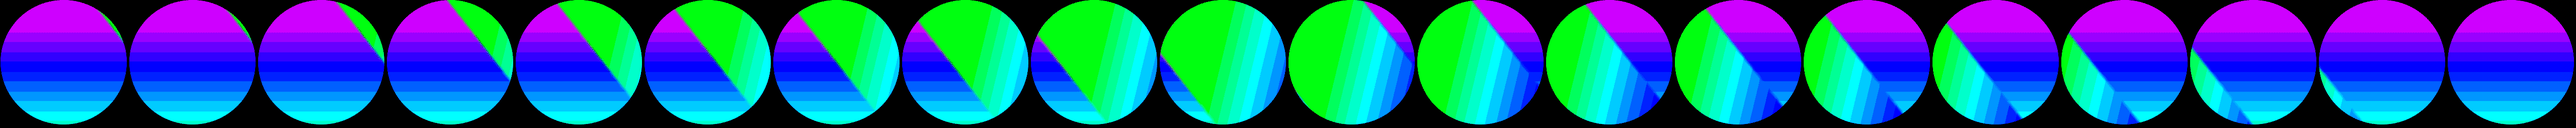
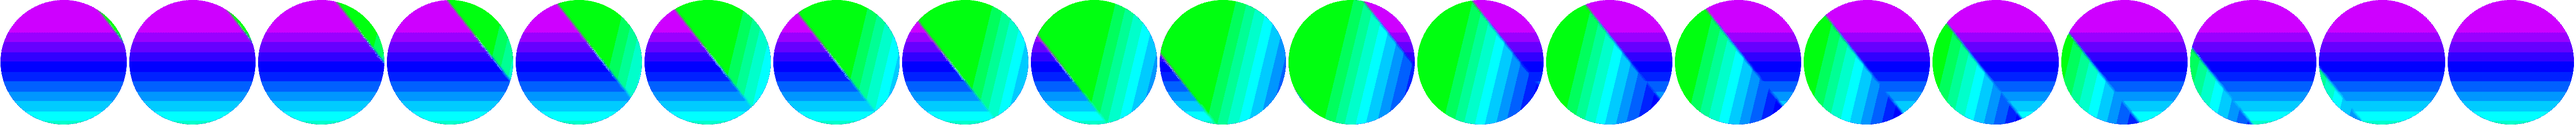
random tint chance, loading screen

Changed region(s): [[0.0, 0.625, 1.0, 1.0], [0.0, 0.0, 1.0, 0.3438]]

diff --git a/js/main.js b/js/main.js
@@ -1,6 +1,6 @@
 "use strict";
 
-Pizzicato.volume = 0;
+Pizzicato.volume = 1;
 // directions: [N, E, S, W]
 
 let overlayElementCount = 0;
@@ -183,17 +183,20 @@ class OverlayElement
       let frameWidth = frames[0].width;
       let frameHeight = frames[0].height;
 
-      let tintCanvas = document.createElement('canvas');
-      tintCanvas.width = frameWidth;
-      tintCanvas.height = frameHeight;
-
-      let t_ctx = tintCanvas.getContext('2d');
-      t_ctx.fillStyle = tint;
-      t_ctx.fillRect(0, 0, frameWidth, frameHeight);
-
-
       for (let i = 0; i < frames.length; i++)
       {
+        let tintCanvas = document.createElement('canvas');
+        tintCanvas.width = frameWidth;
+        tintCanvas.height = frameHeight;
+
+        let t_ctx = tintCanvas.getContext('2d');
+        t_ctx.fillStyle = tint;
+        t_ctx.fillRect(0, 0, frameWidth, frameHeight);
+
+        t_ctx.globalCompositeOperation = "destination-in";
+
+        t_ctx.drawImage(frames[i], 0, 0, frameWidth, frameHeight);
+
         let tintedFrame = document.createElement('canvas');
 
         tintedFrame.width = frameWidth;
@@ -661,7 +664,7 @@ class Game
 {
   constructor()
   {
-    this.state = "menu";
+    this.state = "preload";
 
     this.generator = undefined;
     this.player = new Player();
@@ -755,6 +758,15 @@ class Game
         this.state = "game";
       }
     }
+    else if (this.state === "preload")
+    {
+      if (this.renderer.assetsPreloaded())
+      {
+        this.state = "menu";
+        this.renderer.createLoadingElement();
+        this.renderer.loadAssets();
+      }
+    }
   }
 
   startSong()
@@ -775,6 +787,8 @@ class Game
 
     let zone;
     let anchor;
+    let baseOffset = 60;
+    let yOffset = null;
 
     if (this.renderer.canvasWidth >= this.renderer.canvasHeight)
     {
@@ -782,19 +796,23 @@ class Game
       {
         case 0:
           zone = "B0";
-          anchor = "top-left";
+          anchor = "top-right";
+          yOffset = baseOffset;
           break;
         case 1:
           zone = "B1";
-          anchor = "top-right";
+          anchor = "top-left";
+          yOffset = baseOffset;
           break;
         case 2:
           zone = "B1";
-          anchor = "bottom-right";
+          anchor = "bottom-left";
+          yOffset = -baseOffset;
           break;
         case 3:
           zone = "B0";
-          anchor = "bottom-left";
+          anchor = "bottom-right";
+          yOffset = -baseOffset;
           break;
         default:
           console.log("INVALID QUADRANT");
@@ -826,10 +844,15 @@ class Game
     }
 
     let supporter = new OverlayElement(this.renderer.assets.getAsset(supporterID));
-    supporter.setTint(this.quadrants[quadrant].colours[0].string);
+    if (Math.random() < 0.7)
+    {
+      supporter.setTint(this.quadrants[quadrant].colours[0].string);
+    }
+
     supporter.animation.timeDivider = 4;
     supporter.anchor = anchor;
     supporter.setRelativeSize(this.renderer.supporterZones[zone].width, this.renderer.supporterZones[zone].height, 0.8, supporter.width/supporter.height);
+    supporter.setOffset(0, yOffset);
 
     if (this.cornerSupporters[quadrant] !== null)
     {
@@ -1272,6 +1295,9 @@ class GameRenderer
 
       this.layerOrder = ["standard", "mazeBackground", "mazeTexture", "deadSpace", "mazeParticles", "character", "supporters"];
 
+      this.preloadedAssets = new AssetLibrary();
+      this.loadingElement = null;
+
       this.assets = new AssetLibrary();
 
       this.activeSheets = {};
@@ -1290,10 +1316,21 @@ class GameRenderer
 
       this.addAnimation("character", characterAnimation);
 
-      this.loadAssets();
+      this.preloadAssets();
 
       this.scaleLayers();
       this.initializeSupporterZones();
+    }
+
+    preloadAssets()
+    {
+      this.preloadedAssets.addAnimatedAsset("loadingAnimation", "imgs/loadingAnimation.png", 247, 256);
+    }
+
+    createLoadingElement()
+    {
+      this.loadingElement = new OverlayElement(this.preloadedAssets.getAsset("loadingAnimation"));
+      this.loadingElement.animation.timeDivider = 4;
     }
 
     loadAssets()
@@ -1390,9 +1427,15 @@ class GameRenderer
       this.deadspace.animation.timeDivider = 4;
     }
 
+    assetsPreloaded()
+    {
+      console.log(this.preloadedAssets.loadingAssets.length)
+      return (this.preloadedAssets.loadingAssets.length === 0);
+    }
+
     assetsLoaded()
     {
-      return this.assets.loadingAssets.length === 0;
+      return (this.assets.loadingAssets.length === 0) && (this.preloadedAssets.loadingAssets.length === 0);
     }
 
     addLayer(name, xPos, yPos, xSize, ySize)
@@ -1522,7 +1565,8 @@ class GameRenderer
 
     displayMenu(game)
     {
-
+      let imageSize = Math.min(this.canvasWidth, this.canvasHeight)-50;
+      this.ctx.drawImage(this.loadingElement.getImage(), (this.canvasWidth/2)-(imageSize/2), (this.canvasHeight/2)-(imageSize/2), imageSize, imageSize);
     }
 
     displayDeadspace(game)
